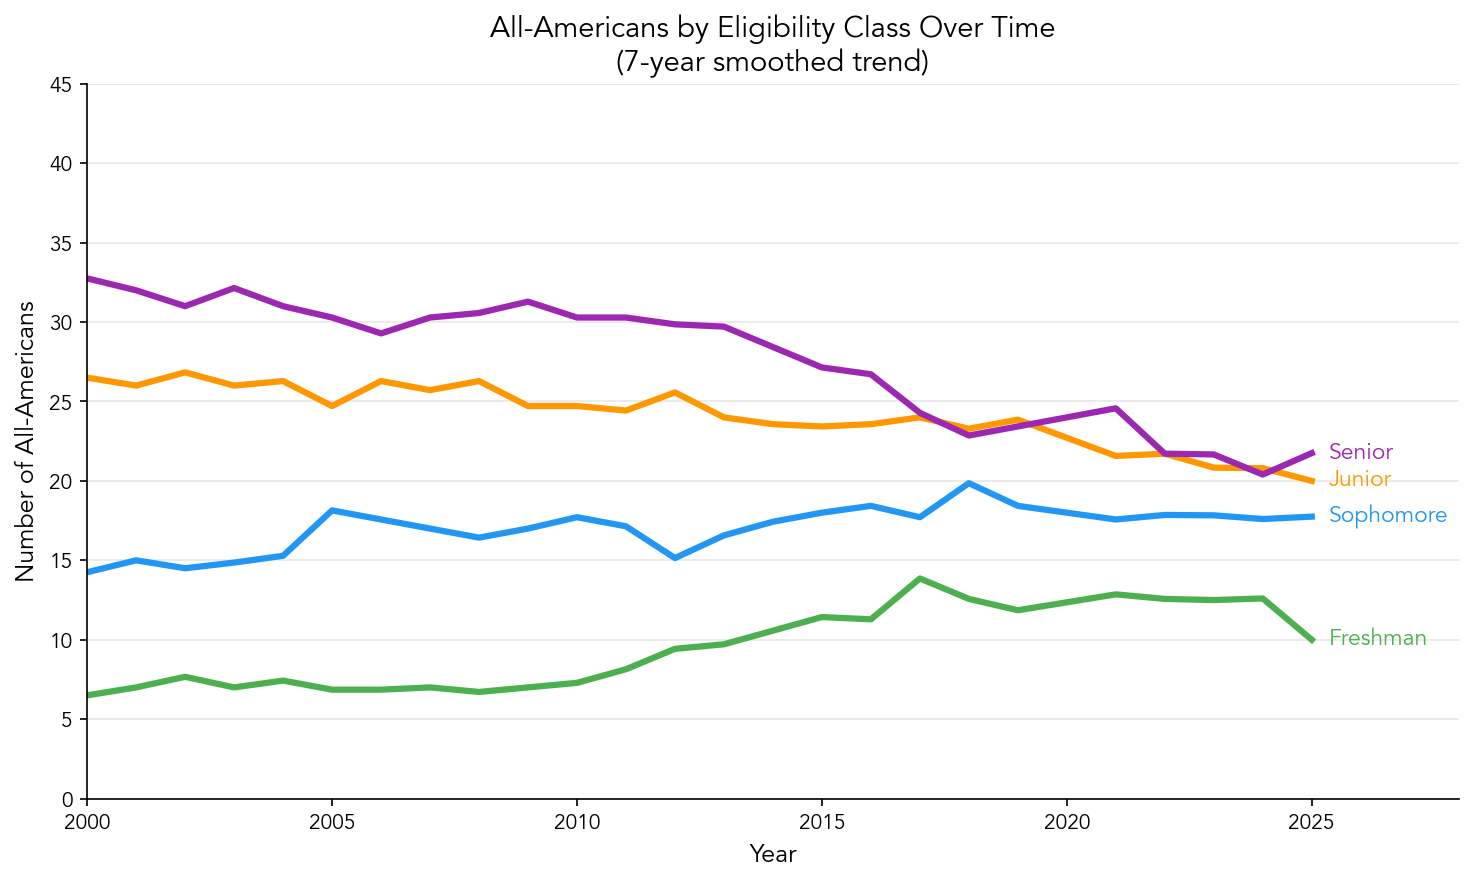
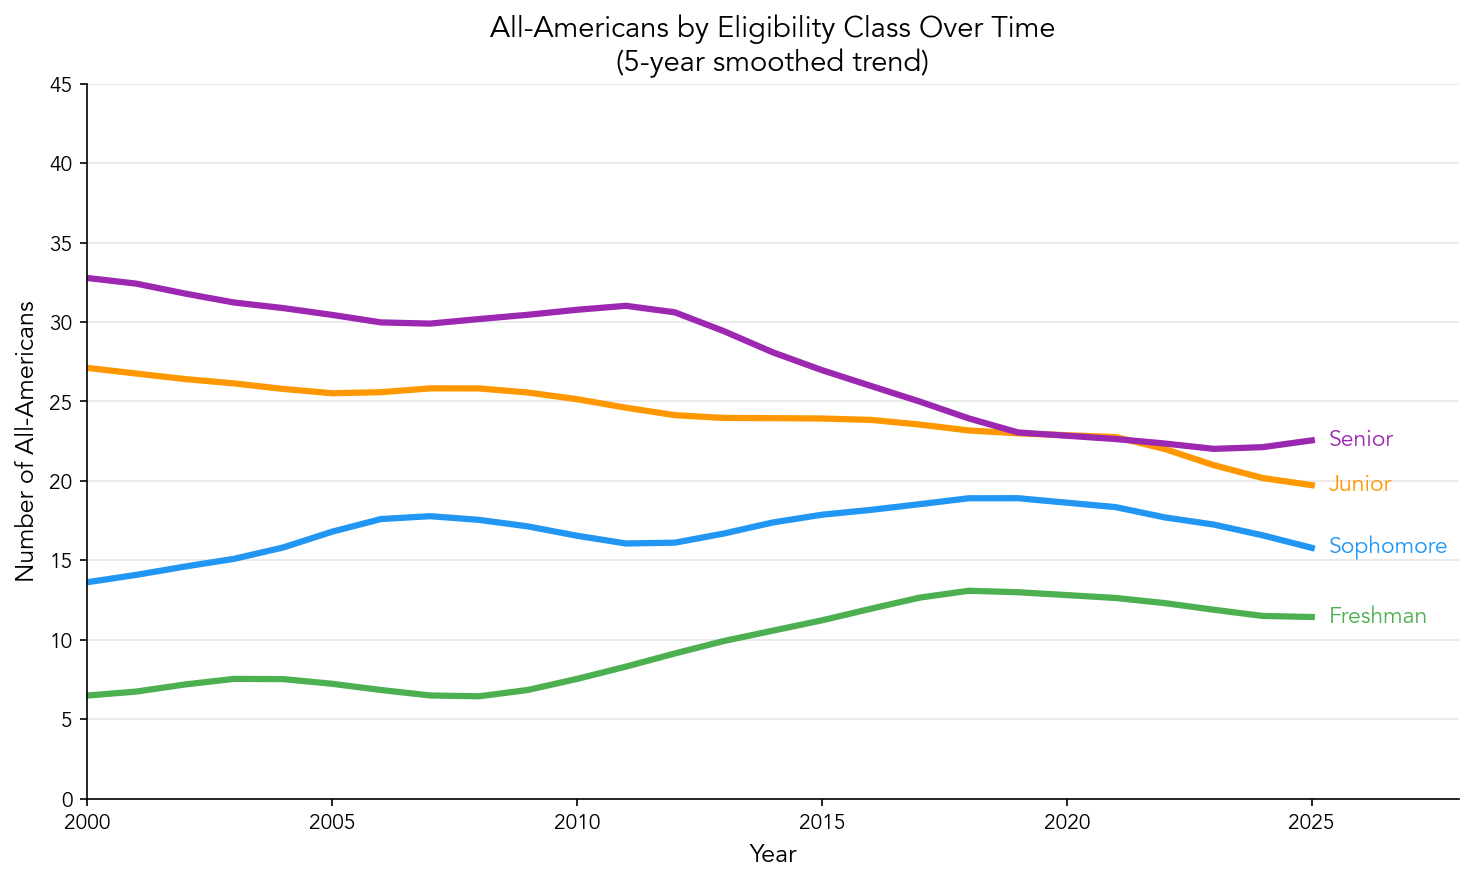
Trend charts: 5-year rolling + light Gaussian smoothing

diff --git a/notebooks/analysis.py b/notebooks/analysis.py
@@ -249,8 +249,9 @@ aa_by_year_elig = df.pivot_table(
 plot_order = [e for e in ["Fr", "So", "Jr", "Sr"] if e in aa_by_year_elig.columns]
 aa_counts = aa_by_year_elig[plot_order]
 
-# 7-year rolling mean for smoothing
-aa_smoothed = aa_counts.rolling(window=7, center=True, min_periods=1).mean()
+# 5-year rolling mean + light Gaussian smoothing for extra smoothness
+from scipy.ndimage import gaussian_filter1d
+aa_rolled = aa_counts.rolling(window=5, center=True, min_periods=1).mean()
 
 # Eligibility labels for direct annotation
 ELIG_LABELS = {"Fr": "Freshman", "So": "Sophomore", "Jr": "Junior", "Sr": "Senior"}
@@ -258,8 +259,10 @@ ELIG_LABELS = {"Fr": "Freshman", "So": "Sophomore", "Jr": "Junior", "Sr": "Senio
 fig, ax = plt.subplots(figsize=(10, 6))
 
 for elig in plot_order:
-    years = aa_smoothed.index.values
-    smoothed = aa_smoothed[elig].values
+    years = aa_rolled.index.values
+    rolled = aa_rolled[elig].values
+    # Apply light Gaussian smoothing on top
+    smoothed = gaussian_filter1d(rolled, sigma=1.2)
     
     # Plot smoothed trend line only
     ax.plot(
@@ -284,10 +287,10 @@ for elig in plot_order:
 
 ax.set_xlabel("Year", fontsize=12)
 ax.set_ylabel("Number of All-Americans", fontsize=12)
-ax.set_title("All-Americans by Eligibility Class Over Time\n(7-year smoothed trend)", 
+ax.set_title("All-Americans by Eligibility Class Over Time\n(5-year smoothed trend)", 
              fontsize=14, fontweight="bold")
 ax.set_ylim(0, 45)
-ax.set_xlim(aa_smoothed.index.min(), aa_smoothed.index.max() + 3)  # Extra space for labels
+ax.set_xlim(aa_rolled.index.min(), aa_rolled.index.max() + 3)  # Extra space for labels
 ax.spines["top"].set_visible(False)
 ax.spines["right"].set_visible(False)
 ax.grid(axis="y", alpha=0.3)
@@ -359,14 +362,16 @@ nc_by_year_elig = champions.pivot_table(
 plot_order_nc = [e for e in ["Fr", "So", "Jr", "Sr"] if e in nc_by_year_elig.columns]
 nc_counts = nc_by_year_elig[plot_order_nc]
 
-# 5-year rolling mean for smoothing
-nc_smoothed = nc_counts.rolling(window=5, center=True, min_periods=1).mean()
+# 5-year rolling mean + light Gaussian smoothing
+nc_rolled = nc_counts.rolling(window=5, center=True, min_periods=1).mean()
 
 fig, ax = plt.subplots(figsize=(10, 6))
 
 for elig in plot_order_nc:
-    years = nc_smoothed.index.values
-    smoothed = nc_smoothed[elig].values
+    years = nc_rolled.index.values
+    rolled = nc_rolled[elig].values
+    # Apply light Gaussian smoothing on top
+    smoothed = gaussian_filter1d(rolled, sigma=1.2)
     
     # Plot smoothed trend line only
     ax.plot(
@@ -394,7 +399,7 @@ ax.set_ylabel("Number of National Champions", fontsize=12)
 ax.set_title("National Champions by Eligibility Class Over Time\n(5-year smoothed trend)", 
              fontsize=14, fontweight="bold")
 ax.set_ylim(0, 8)
-ax.set_xlim(nc_smoothed.index.min(), nc_smoothed.index.max() + 3)  # Extra space for labels
+ax.set_xlim(nc_rolled.index.min(), nc_rolled.index.max() + 3)  # Extra space for labels
 ax.spines["top"].set_visible(False)
 ax.spines["right"].set_visible(False)
 ax.grid(axis="y", alpha=0.3)

diff --git a/docs/report.md b/docs/report.md
@@ -61,7 +61,7 @@ Has the eligibility distribution changed over 25 years? These charts show how ea
 
 <figure>
 <img src="{{ site.baseurl }}/charts/aa_trend_by_eligibility.png" alt="Smoothed trend lines showing All-Americans by eligibility year over time">
-<figcaption>Seven-year smoothed trend in All-Americans by eligibility class, 2000–2025.</figcaption>
+<figcaption>Five-year smoothed trend in All-Americans by eligibility class, 2000–2025.</figcaption>
 </figure>
 
 <figure>
